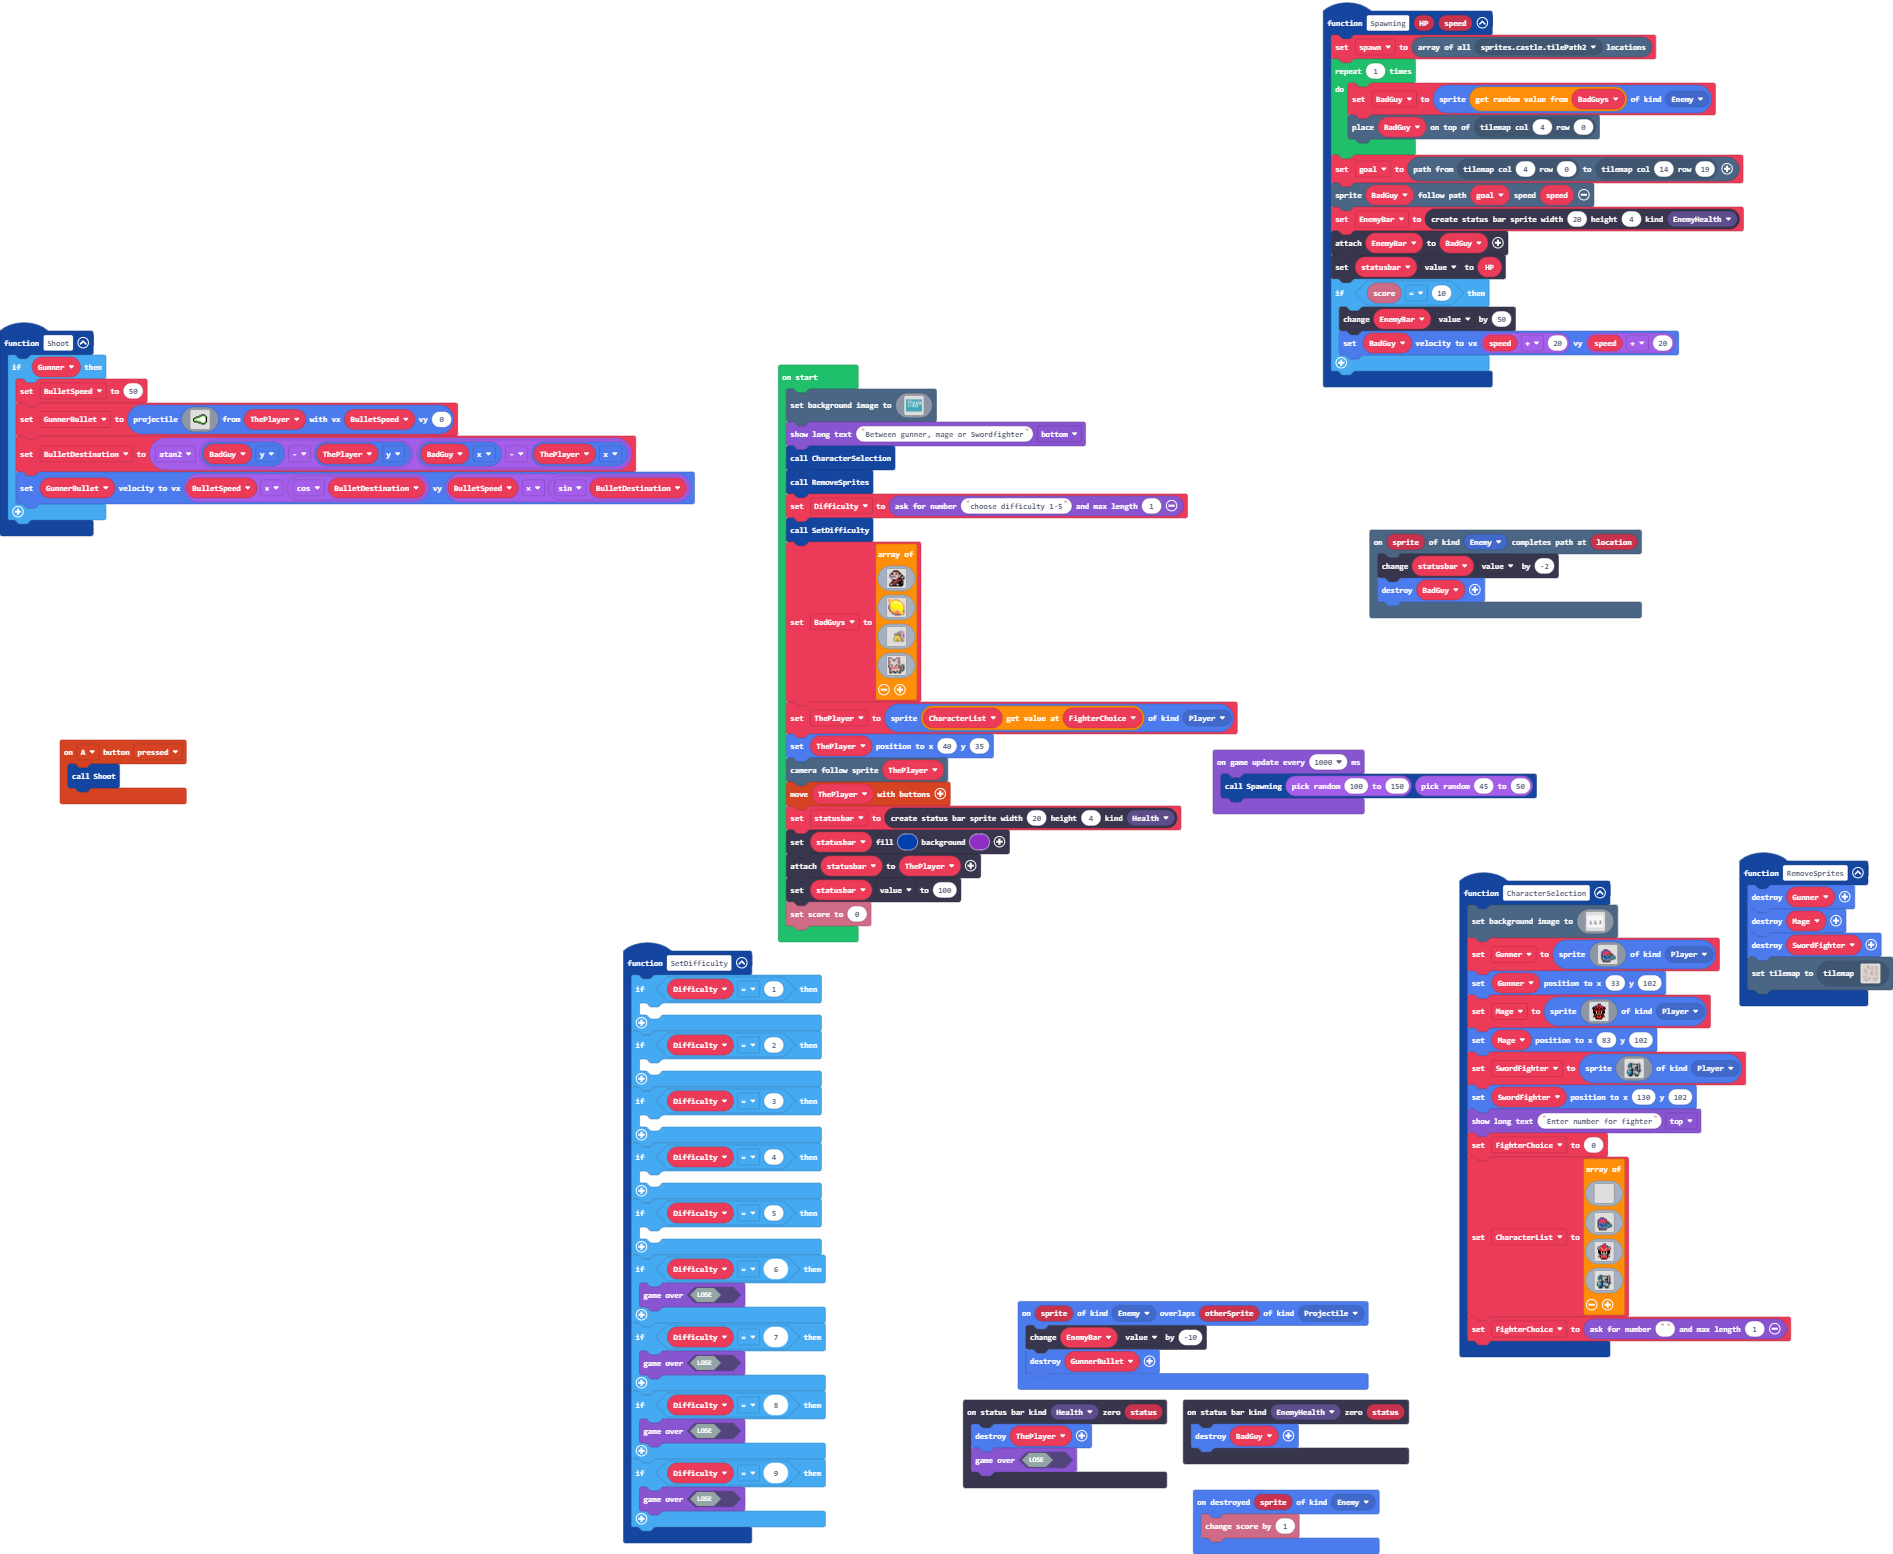
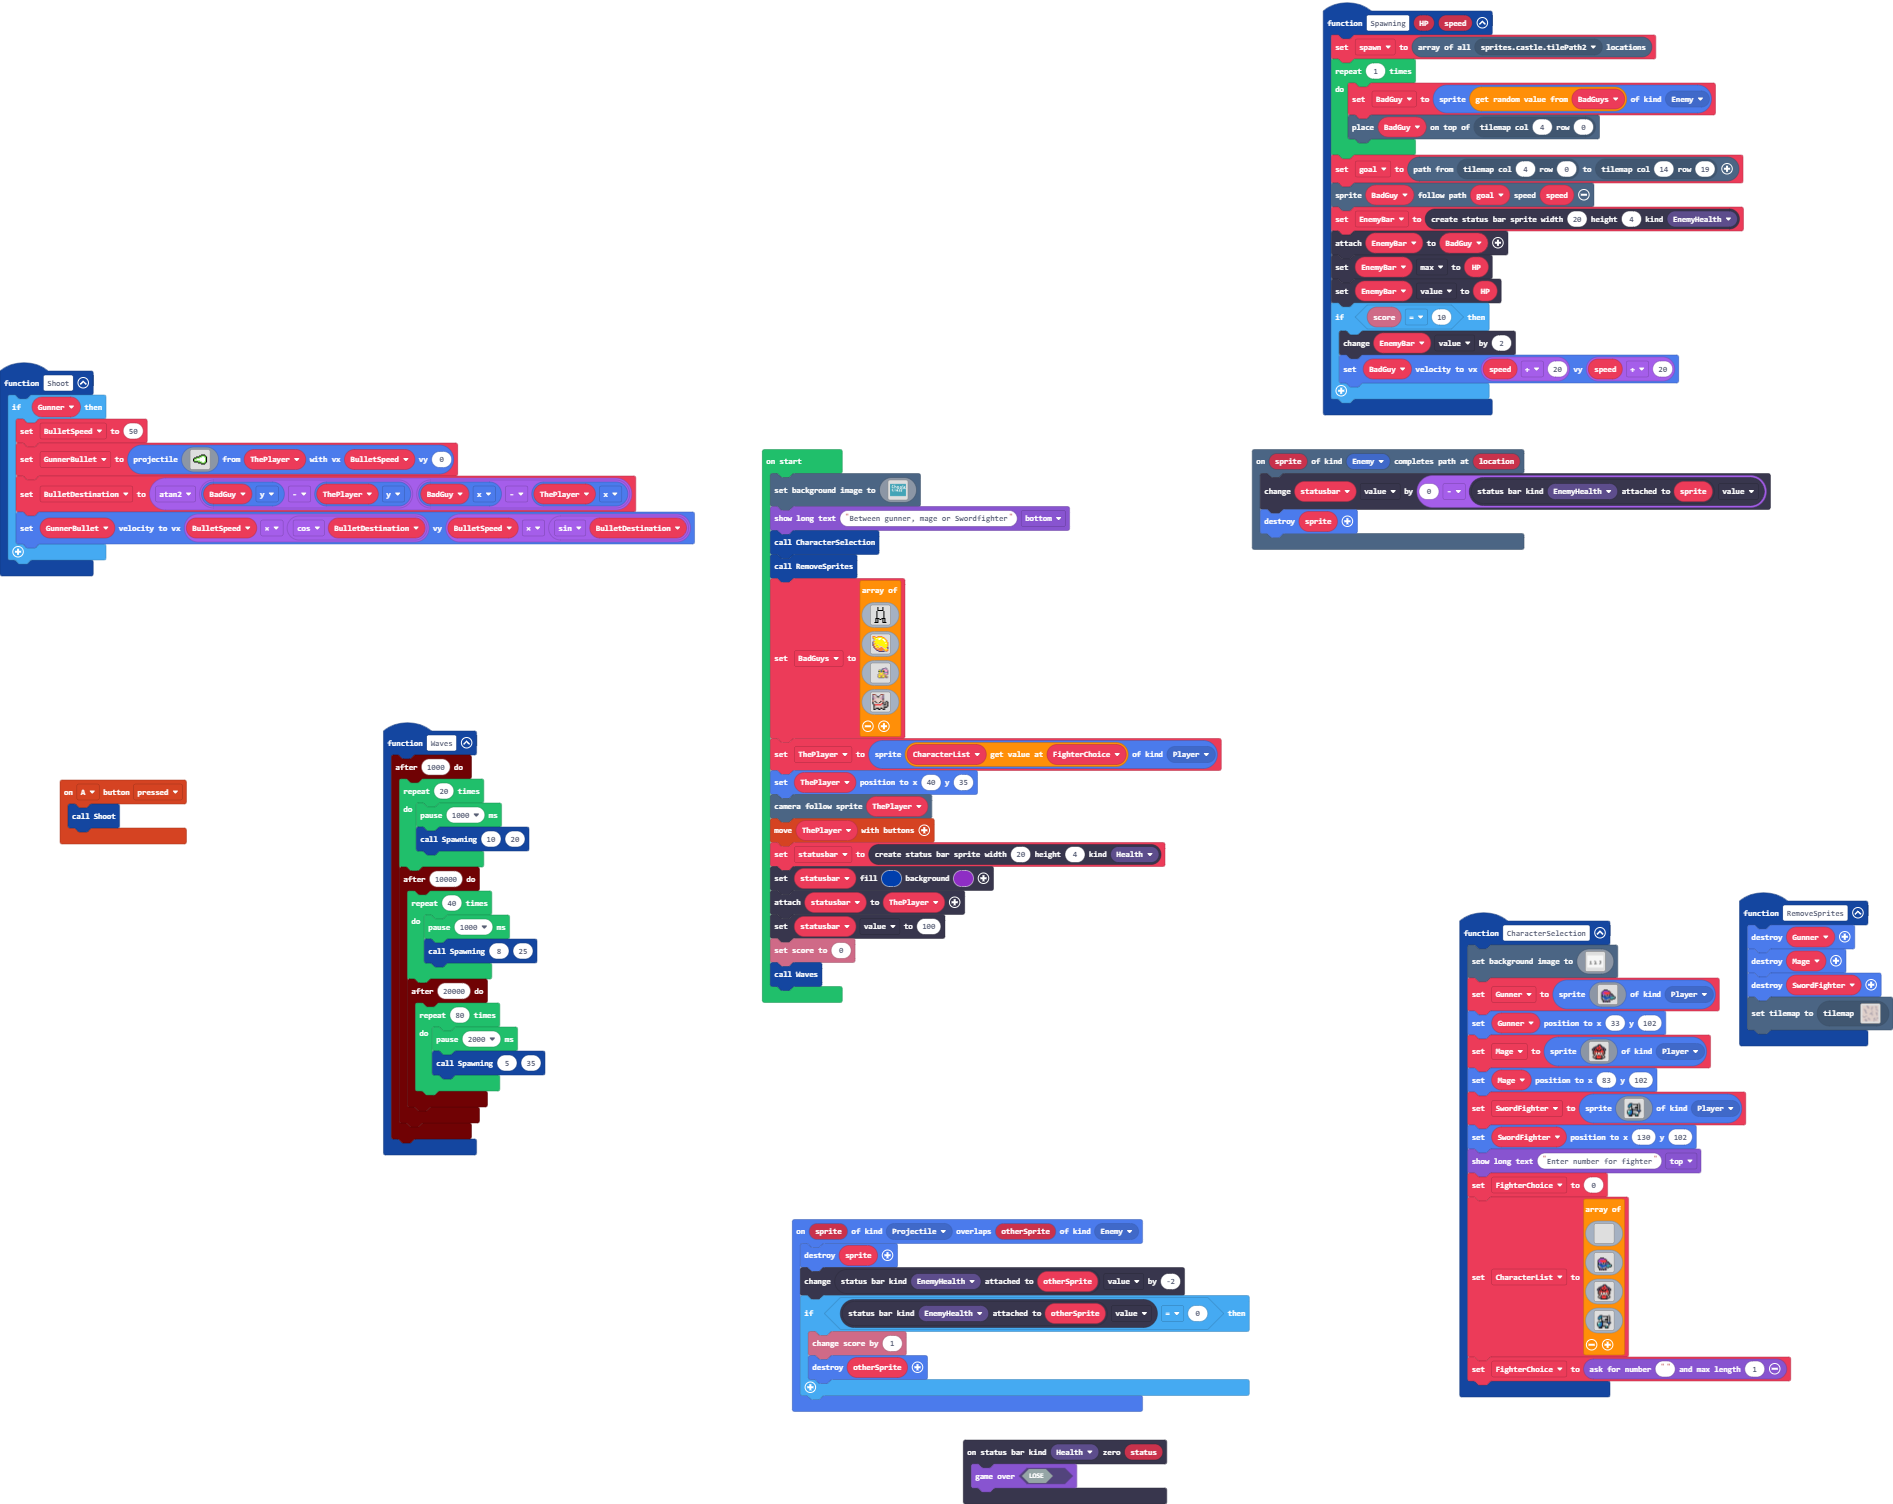
fixed health issues

diff --git a/main.ts b/main.ts
@@ -5,44 +5,11 @@ function RemoveSprites () {
     tiles.setCurrentTilemap(tilemap`level1`)
 }
 scene.onPathCompletion(SpriteKind.Enemy, function (sprite, location) {
-    statusbar.value += -2
-    sprites.destroy(BadGuy)
+    statusbar.value += 0 - statusbars.getStatusBarAttachedTo(StatusBarKind.EnemyHealth, sprite).value
+    sprites.destroy(sprite)
 })
 controller.A.onEvent(ControllerButtonEvent.Pressed, function () {
     Shoot()
-})
-function SetDifficulty () {
-    if (Difficulty == 1) {
-    	
-    }
-    if (Difficulty == 2) {
-    	
-    }
-    if (Difficulty == 3) {
-    	
-    }
-    if (Difficulty == 4) {
-    	
-    }
-    if (Difficulty == 5) {
-    	
-    }
-    if (Difficulty == 6) {
-        game.gameOver(false)
-    }
-    if (Difficulty == 7) {
-        game.gameOver(false)
-    }
-    if (Difficulty == 8) {
-        game.gameOver(false)
-    }
-    if (Difficulty == 9) {
-        game.gameOver(false)
-    }
-}
-sprites.onOverlap(SpriteKind.Enemy, SpriteKind.Projectile, function (sprite, otherSprite) {
-    EnemyBar.value += -10
-    sprites.destroy(GunnerBullet)
 })
 function CharacterSelection () {
     scene.setBackgroundImage(img`
@@ -191,22 +158,24 @@ function CharacterSelection () {
         `, SpriteKind.Player)
     Gunner.setPosition(33, 102)
     Mage = sprites.create(img`
-        . . . . . . . c c c . . . . . . 
-        . . . . . . c f 2 c . . . . . . 
-        . . . . c c c 2 2 c c c . . . . 
-        . . c c f c 2 2 f 2 c c c c . . 
-        . c f f 2 f 2 f 2 2 f 2 f f c . 
-        . c f f 2 f f 2 2 f f 2 f f c . 
-        . . f 2 f 2 f f f f 2 f 2 c . . 
-        . . f f 2 2 2 2 2 2 2 2 f f . . 
-        . . f f f b f e e f b f f f . . 
-        . . f f f 1 f e e f 1 f f f . . 
-        . . . f f e e e e e e f f . . . 
-        . . . e e f e e e e f e e . . . 
-        . . e f c f 2 f f 2 f f f e . . 
-        . . e e f 2 2 2 2 2 2 f e e . . 
-        . . . . c f 2 2 2 2 f c . . . . 
-        . . . . . f f f f f f . . . . . 
+        ..................
+        ........fff.......
+        .......fc2cf......
+        .....ffcf22ff.....
+        ...ffcc2222ccff...
+        ..fccf222f22cccf..
+        .fcff2f2f22f2ffcf.
+        .fcff2ff22ff2ffcf.
+        ..fc2f2ffff222cf..
+        ..fee22222222eef..
+        ..feee1fddf1eeef..
+        ..feee1fddf1eeef..
+        ...feeddddddeef...
+        ...fddf2ff2fddf...
+        ..fdfcf2222fffdf..
+        ..fddf222222fddf..
+        ...ffcf2222fcff...
+        .....ffffffff.....
         `, SpriteKind.Player)
     Mage.setPosition(83, 102)
     SwordFighter = sprites.create(img`
@@ -274,22 +243,24 @@ function CharacterSelection () {
         ....fccf.fccf.......
         `,
     img`
-        . . . . . . . c c c . . . . . . 
-        . . . . . . c b 2 c . . . . . . 
-        . . . . c c c 2 2 c c c . . . . 
-        . . c c b c 2 2 2 2 c c c c . . 
-        . c b b 2 b 2 2 2 2 b 2 b b c . 
-        . c b 2 2 b b 2 2 b b 2 2 b c . 
-        . . f 2 2 2 b b b b 2 2 2 c . . 
-        . . f f 2 2 2 2 2 2 2 2 f f . . 
-        . . f f f b f e e f b f f f . . 
-        . . f f f 1 f b b f 1 f f f . . 
-        . . . f f b b b b b b f f . . . 
-        . . . e e f e e e e f e e . . . 
-        . . e b c b 2 b b 2 b f b e . . 
-        . . e e f 2 2 2 2 2 2 f e e . . 
-        . . . . c b 2 2 2 2 b c . . . . 
-        . . . . . f f f f f f . . . . . 
+        ..................
+        ........fff.......
+        .......fc2cf......
+        .....ffcf22ff.....
+        ...ffcc2222ccff...
+        ..fccf222f22cccf..
+        .fcff2f2f22f2ffcf.
+        .fcff2ff22ff2ffcf.
+        ..fc2f2ffff222cf..
+        ..fee22222222eef..
+        ..feee1fddf1eeef..
+        ..feee1fddf1eeef..
+        ...feeddddddeef...
+        ...fddf2ff2fddf...
+        ..fdfcf2222fffdf..
+        ..fddf222222fddf..
+        ...ffcf2222fcff...
+        .....ffffffff.....
         `,
     img`
         ..................
@@ -314,9 +285,6 @@ function CharacterSelection () {
     ]
     FighterChoice = game.askForNumber("", 1)
 }
-statusbars.onZero(StatusBarKind.EnemyHealth, function (status) {
-    sprites.destroy(BadGuy)
-})
 function Shoot () {
     if (Gunner) {
         BulletSpeed = 50
@@ -343,7 +311,6 @@ function Shoot () {
     }
 }
 statusbars.onZero(StatusBarKind.Health, function (status) {
-    sprites.destroy(ThePlayer)
     game.gameOver(false)
 })
 function Spawning (HP: number, speed: number) {
@@ -356,22 +323,48 @@ function Spawning (HP: number, speed: number) {
     scene.followPath(BadGuy, goal, speed)
     EnemyBar = statusbars.create(20, 4, StatusBarKind.EnemyHealth)
     EnemyBar.attachToSprite(BadGuy)
-    statusbar.value = HP
+    EnemyBar.max = HP
+    EnemyBar.value = HP
     if (info.score() == 10) {
-        EnemyBar.value += 50
+        EnemyBar.value += 2
         BadGuy.setVelocity(speed + 20, speed + 20)
     }
 }
-sprites.onDestroyed(SpriteKind.Enemy, function (sprite) {
-    info.changeScoreBy(1)
+function Waves () {
+    timer.after(1000, function () {
+        for (let index = 0; index < 20; index++) {
+            pause(1000)
+            Spawning(10, 20)
+        }
+        timer.after(10000, function () {
+            for (let index = 0; index < 40; index++) {
+                pause(1000)
+                Spawning(8, 25)
+            }
+            timer.after(20000, function () {
+                for (let index = 0; index < 80; index++) {
+                    pause(2000)
+                    Spawning(5, 35)
+                }
+            })
+        })
+    })
+}
+sprites.onOverlap(SpriteKind.Projectile, SpriteKind.Enemy, function (sprite, otherSprite) {
+    sprites.destroy(sprite)
+    statusbars.getStatusBarAttachedTo(StatusBarKind.EnemyHealth, otherSprite).value += -2
+    if (statusbars.getStatusBarAttachedTo(StatusBarKind.EnemyHealth, otherSprite).value == 0) {
+        info.changeScoreBy(1)
+        sprites.destroy(otherSprite)
+    }
 })
+let EnemyBar: StatusBarSprite = null
 let goal: tiles.Location[] = []
 let spawn: tiles.Location[] = []
-let BulletDestination = 0
-let BulletSpeed = 0
-let GunnerBullet: Sprite = null
-let EnemyBar: StatusBarSprite = null
 let BadGuy: Sprite = null
+let BulletDestination = 0
+let GunnerBullet: Sprite = null
+let BulletSpeed = 0
 let SwordFighter: Sprite = null
 let Mage: Sprite = null
 let Gunner: Sprite = null
@@ -380,7 +373,6 @@ let FighterChoice = 0
 let CharacterList: Image[] = []
 let ThePlayer: Sprite = null
 let BadGuys: Image[] = []
-let Difficulty = 0
 scene.setBackgroundImage(img`
     6666666666666666666666666666666666666666666666666666666666666666666666666666666666666666666666666666666666666666666666666666666666666666666666666666666666666666
     6666666666666666666666666666666666666666666666666666666666666666666666666666666666666666666666666666666666666666666666666666666666666666666666666666666666666666
@@ -506,26 +498,24 @@ scene.setBackgroundImage(img`
 game.showLongText("Between gunner, mage or Swordfighter", DialogLayout.Bottom)
 CharacterSelection()
 RemoveSprites()
-Difficulty = game.askForNumber("choose difficulty 1-5", 1)
-SetDifficulty()
 BadGuys = [
 img`
-    . . . . . f f f f f . . . . . . 
-    . . . . f e e e e e f . . . . . 
-    . . . f d d d d d e e f . . . . 
-    . . f f f d d f f d e f f . . . 
-    . c d d e e d d d d e d d f . . 
-    . c c d d d d c d d e d f f f . 
-    . c d c c c c d d d e d f b d f 
-    . . c d d d d d d e e f f d d f 
-    . . . c d d d d e e f f e f f f 
-    . . . . f f f e e f e e e f . . 
-    . . . . f e e e e e e e f f f . 
-    . . . f e e e e e e f f f e f . 
-    . . f f e e e e f f f f f e f . 
-    . f b d f e e f b b f f f e f . 
-    . f d d f e e f d d b f f f f . 
-    . f f f f f f f f f f f f f . . 
+    . . . . . f . . . . f . . . . . 
+    . . . . . f . . . . f . . . . . 
+    . . . . . f . . . . f . . . . . 
+    . . . . . f f f f f f . . . . . 
+    . . . . f . . . . . . f . . . . 
+    . . . . f . . . . . . f . . . . 
+    . . . . f . . . . . . f . . . . 
+    . . . . f . . . . . . f . . . . 
+    . . . . f . . . . . . f . . . . 
+    . . . . f . . . . . . f . . . . 
+    . . . . f . . . . . . f . . . . 
+    . . . f f f f . . f f f f . . . 
+    . . . f . f . f f . f . f . . . 
+    . . . f . f . . . . f . f . . . 
+    . . . f . f . . . . f . f . . . 
+    . . f f f f . . . . f f f f . . 
     `,
 img`
     4 4 4 . . 4 4 4 4 4 . . . . . . 
@@ -589,6 +579,4 @@ statusbar.setColor(8, 10)
 statusbar.attachToSprite(ThePlayer)
 statusbar.value = 100
 info.setScore(0)
-game.onUpdateInterval(1000, function () {
-    Spawning(randint(100, 150), randint(45, 50))
-})
+Waves()

diff --git a/images.g.ts b/images.g.ts
@@ -1,0 +1,26 @@
+// Auto-generated code. Do not edit.
+namespace myImages {
+
+    helpers._registerFactory("image", function(name: string) {
+        switch(helpers.stringTrim(name)) {
+
+        }
+        return null;
+    })
+
+    helpers._registerFactory("animation", function(name: string) {
+        switch(helpers.stringTrim(name)) {
+
+        }
+        return null;
+    })
+
+    helpers._registerFactory("song", function(name: string) {
+        switch(helpers.stringTrim(name)) {
+
+        }
+        return null;
+    })
+
+}
+// Auto-generated code. Do not edit.
